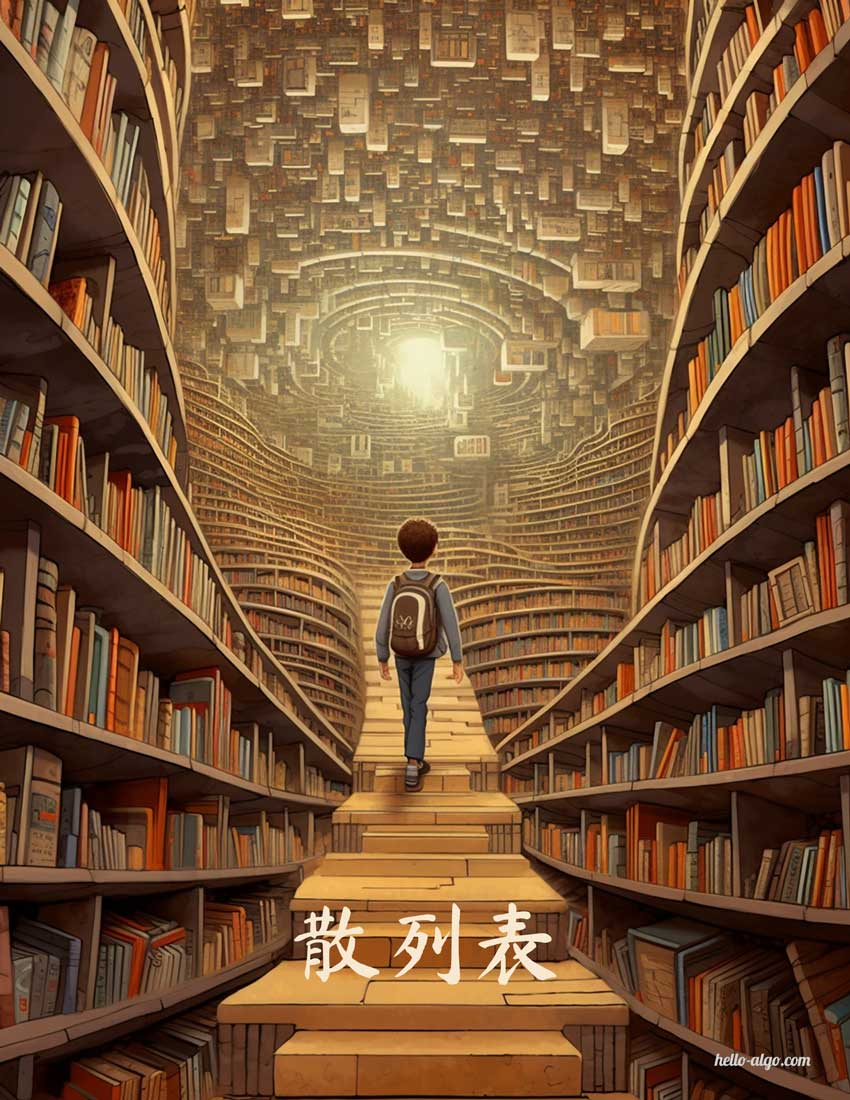
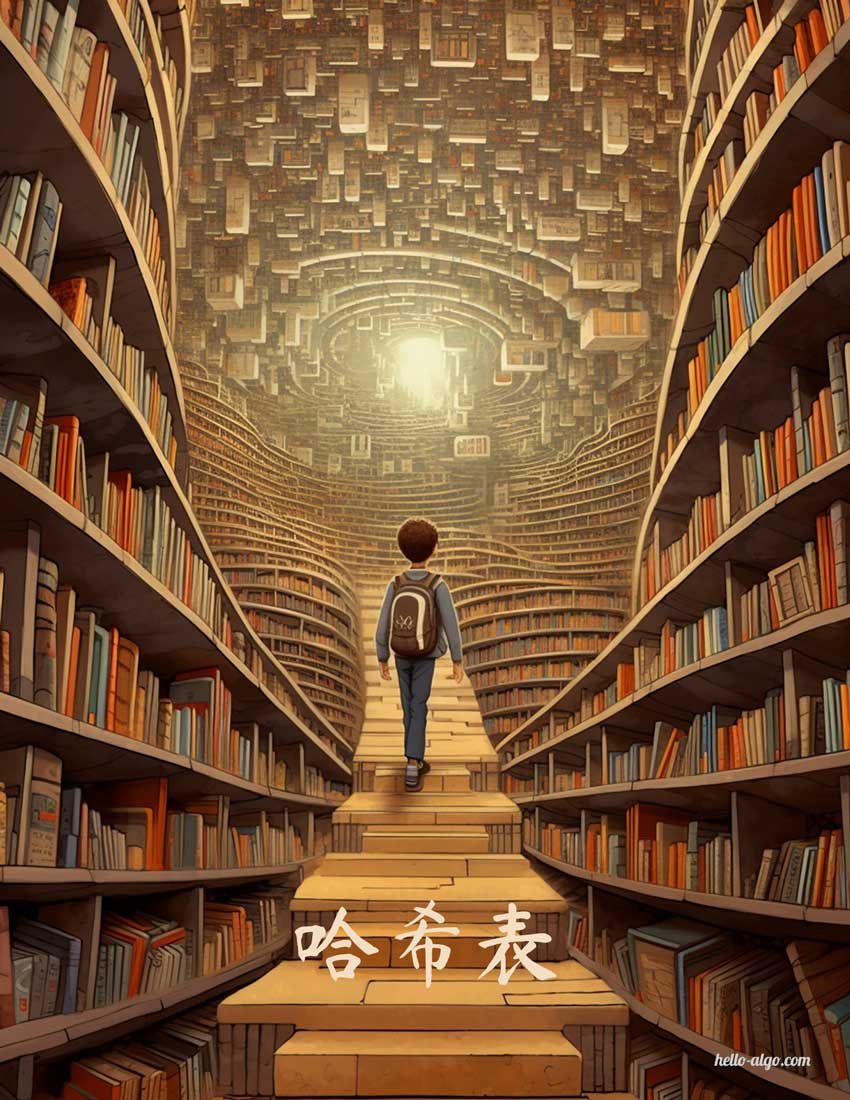
Polish the content.

Changed region(s): [[0.3365, 0.8036, 0.5506, 0.8964]]

diff --git a/docs/chapter_backtracking/subset_sum_problem.md b/docs/chapter_backtracking/subset_sum_problem.md
@@ -128,22 +128,22 @@
 
 **我们考虑在搜索过程中通过剪枝进行去重**。观察下图，重复子集是在以不同顺序选择数组元素时产生的，具体来看：
 
-1. 第一轮和第二轮分别选择 $3$ , $4$ ，会生成包含这两个元素的所有子集，记为 $[3, 4, \cdots]$ 。
-2. 若第一轮选择 $4$ ，**则第二轮应该跳过 $3$** ，因为该选择产生的子集 $[4, 3, \cdots]$ 和 `1.` 中生成的子集完全重复。
+1. 第一轮和第二轮分别选择 $3$ , $4$ ，会生成包含这两个元素的所有子集，记为 $[3, 4, \dots]$ 。
+2. 若第一轮选择 $4$ ，**则第二轮应该跳过 $3$** ，因为该选择产生的子集 $[4, 3, \dots]$ 和 `1.` 中生成的子集完全重复。
 
 分支越靠右，需要排除的分支也越多，例如：
 
-1. 前两轮选择 $3$ , $5$ ，生成子集 $[3, 5, \cdots]$ 。
-2. 前两轮选择 $4$ , $5$ ，生成子集 $[4, 5, \cdots]$ 。
-3. 若第一轮选择 $5$ ，**则第二轮应该跳过 $3$ 和 $4$** ，因为子集 $[5, 3, \cdots]$ 和子集 $[5, 4, \cdots]$ 和 `1.` , `2.` 中生成的子集完全重复。
+1. 前两轮选择 $3$ , $5$ ，生成子集 $[3, 5, \dots]$ 。
+2. 前两轮选择 $4$ , $5$ ，生成子集 $[4, 5, \dots]$ 。
+3. 若第一轮选择 $5$ ，**则第二轮应该跳过 $3$ 和 $4$** ，因为子集 $[5, 3, \dots]$ 和子集 $[5, 4, \dots]$ 和 `1.` , `2.` 中生成的子集完全重复。
 
 ![不同选择顺序导致的重复子集](subset_sum_problem.assets/subset_sum_i_pruning.png)
 
-总结来看，给定输入数组 $[x_1, x_2, \cdots, x_n]$ ，设搜索过程中的选择序列为 $[x_{i_1}, x_{i_2}, \cdots , x_{i_m}]$ ，则该选择序列需要满足 $i_1 \leq i_2 \leq \cdots \leq i_m$ ，**不满足该条件的选择序列都会造成重复，应当剪枝**。
+总结来看，给定输入数组 $[x_1, x_2, \dots, x_n]$ ，设搜索过程中的选择序列为 $[x_{i_1}, x_{i_2}, \dots , x_{i_m}]$ ，则该选择序列需要满足 $i_1 \leq i_2 \leq \dots \leq i_m$ ，**不满足该条件的选择序列都会造成重复，应当剪枝**。
 
 ### 代码实现
 
-为实现该剪枝，我们初始化变量 `start` ，用于指示遍历起点。**当做出选择 $x_{i}$ 后，设定下一轮从索引 $i$ 开始遍历**。这样做就可以让选择序列满足 $i_1 \leq i_2 \leq \cdots \leq i_m$ ，从而保证子集唯一。
+为实现该剪枝，我们初始化变量 `start` ，用于指示遍历起点。**当做出选择 $x_{i}$ 后，设定下一轮从索引 $i$ 开始遍历**。这样做就可以让选择序列满足 $i_1 \leq i_2 \leq \dots \leq i_m$ ，从而保证子集唯一。
 
 除此之外，我们还对代码进行了两项优化：
 

diff --git a/docs/chapter_computational_complexity/time_complexity.md b/docs/chapter_computational_complexity/time_complexity.md
@@ -1210,7 +1210,7 @@ $$
 
 ![常数阶、线性阶和平方阶的时间复杂度](time_complexity.assets/time_complexity_constant_linear_quadratic.png)
 
-以冒泡排序为例，外层循环执行 $n - 1$ 次，内层循环执行 $n-1, n-2, \cdots, 2, 1$ 次，平均为 $n / 2$ 次，因此时间复杂度为 $O((n - 1) n / 2) = O(n^2)$ 。
+以冒泡排序为例，外层循环执行 $n - 1$ 次，内层循环执行 $n-1, n-2, \dots, 2, 1$ 次，平均为 $n / 2$ 次，因此时间复杂度为 $O((n - 1) n / 2) = O(n^2)$ 。
 
 === "Java"
 
@@ -1596,7 +1596,13 @@ $$
 
 !!! tip
 
-    “一分为 $m$”对应的时间复杂度 $O(\log_m n)$ 。我们通常会省略底数 $m$ ，直接将其记为 $O(\log n)$ 。
+    准确来说，“一分为 $m$”对应的时间复杂度是 $O(\log_m n)$ 。而通过对数换底公式，我们可以得到具有不同底数的、相等的时间复杂度：
+
+    $$
+    O(\log_m n) = O(\log_k n / \log_k m) = O(\log_k n)
+    $$
+
+    因此我们通常会省略底数 $m$ ，将对数阶直接记为 $O(\log n)$ 。
 
 ### 线性对数阶 $O(n \log n)$
 
@@ -1683,7 +1689,7 @@ $$
 阶乘阶对应数学上的“全排列”问题。给定 $n$ 个互不重复的元素，求其所有可能的排列方案，方案数量为：
 
 $$
-n! = n \times (n - 1) \times (n - 2) \times \cdots \times 2 \times 1
+n! = n \times (n - 1) \times (n - 2) \times \dots \times 2 \times 1
 $$
 
 阶乘通常使用递归实现。例如在以下代码中，第一层分裂出 $n$ 个，第二层分裂出 $n - 1$ 个，以此类推，直至第 $n$ 层时停止分裂：

diff --git a/docs/chapter_array_and_linkedlist/linked_list.md b/docs/chapter_array_and_linkedlist/linked_list.md
@@ -932,10 +932,10 @@
 
 ## 链表典型应用
 
-单向链表通常用于实现栈、队列、散列表和图等数据结构。
+单向链表通常用于实现栈、队列、哈希表和图等数据结构。
 
 - **栈与队列**：当插入和删除操作都在链表的一端进行时，它表现出先进后出的的特性，对应栈；当插入操作在链表的一端进行，删除操作在链表的另一端进行，它表现出先进先出的特性，对应队列。
-- **散列表**：链地址法是解决哈希冲突的主流方案之一，在该方案中，所有冲突的元素都会被放到一个链表中。
+- **哈希表**：链地址法是解决哈希冲突的主流方案之一，在该方案中，所有冲突的元素都会被放到一个链表中。
 - **图**：邻接表是表示图的一种常用方式，在其中，图的每个顶点都与一个链表相关联，链表中的每个元素都代表与该顶点相连的其他顶点。
 
 双向链表常被用于需要快速查找前一个和下一个元素的场景。

diff --git a/docs/chapter_heap/build_heap.md b/docs/chapter_heap/build_heap.md
@@ -102,22 +102,22 @@
 因此，我们可以将各层的“节点数量 $\times$ 节点高度”求和，**从而得到所有节点的堆化迭代次数的总和**。
 
 $$
-T(h) = 2^0h + 2^1(h-1) + 2^2(h-2) + \cdots + 2^{(h-1)}\times1
+T(h) = 2^0h + 2^1(h-1) + 2^2(h-2) + \dots + 2^{(h-1)}\times1
 $$
 
 化简上式需要借助中学的数列知识，先对 $T(h)$ 乘以 $2$ ，得到
 
 $$
 \begin{aligned}
-T(h) & = 2^0h + 2^1(h-1) + 2^2(h-2) + \cdots + 2^{h-1}\times1 \newline
-2 T(h) & = 2^1h + 2^2(h-1) + 2^3(h-2) + \cdots + 2^{h}\times1 \newline
+T(h) & = 2^0h + 2^1(h-1) + 2^2(h-2) + \dots + 2^{h-1}\times1 \newline
+2 T(h) & = 2^1h + 2^2(h-1) + 2^3(h-2) + \dots + 2^{h}\times1 \newline
 \end{aligned}
 $$
 
 使用错位相减法，用下式 $2 T(h)$ 减去上式 $T(h)$ ，可得
 
 $$
-2T(h) - T(h) = T(h) = -2^0h + 2^1 + 2^2 + \cdots + 2^{h-1} + 2^h
+2T(h) - T(h) = T(h) = -2^0h + 2^1 + 2^2 + \dots + 2^{h-1} + 2^h
 $$
 
 观察上式，发现 $T(h)$ 是一个等比数列，可直接使用求和公式，得到时间复杂度为

diff --git a/docs/chapter_sorting/insertion_sort.md b/docs/chapter_sorting/insertion_sort.md
@@ -93,7 +93,7 @@
 
 ## 算法特性
 
-- **时间复杂度 $O(n^2)$ 、自适应排序** ：最差情况下，每次插入操作分别需要循环 $n - 1$ , $n-2$ , $\cdots$ , $2$ , $1$ 次，求和得到 $\frac{(n - 1) n}{2}$ ，因此时间复杂度为 $O(n^2)$ 。在遇到有序数据时，插入操作会提前终止。当输入数组完全有序时，插入排序达到最佳时间复杂度 $O(n)$ 。
+- **时间复杂度 $O(n^2)$ 、自适应排序** ：最差情况下，每次插入操作分别需要循环 $n - 1$ , $n-2$ , $\dots$ , $2$ , $1$ 次，求和得到 $(n - 1) n / 2$ ，因此时间复杂度为 $O(n^2)$ 。在遇到有序数据时，插入操作会提前终止。当输入数组完全有序时，插入排序达到最佳时间复杂度 $O(n)$ 。
 - **空间复杂度 $O(1)$ 、原地排序** ：指针 $i$ , $j$ 使用常数大小的额外空间。
 - **稳定排序**：在插入操作过程中，我们会将元素插入到相等元素的右侧，不会改变它们的顺序。
 

diff --git a/docs/chapter_data_structure/summary.md b/docs/chapter_data_structure/summary.md
@@ -15,7 +15,7 @@
 
 !!! question "为什么哈希表同时包含线性数据结构和非线性数据结构？"
 
-    哈希表底层是数组，而为了解决哈希冲突，我们可能会使用“链式地址”（后续散列表章节会讲）。在拉链法中，数组中每个地址（桶）指向一个链表；当这个链表长度超过一定阈值时，又可能被转化为树（通常为红黑树）。因此，哈希表可能同时包含线性（数组、链表）和非线性（树）数据结构。
+    哈希表底层是数组，而为了解决哈希冲突，我们可能会使用“链式地址”（后续哈希表章节会讲）。在拉链法中，数组中每个地址（桶）指向一个链表；当这个链表长度超过一定阈值时，又可能被转化为树（通常为红黑树）。因此，哈希表可能同时包含线性（数组、链表）和非线性（树）数据结构。
 
 !!! question "`char` 类型的长度是 1 byte 吗？"
 

diff --git a/docs/chapter_preface/about_the_book.md b/docs/chapter_preface/about_the_book.md
@@ -23,7 +23,7 @@
 本书主要内容包括：
 
 - **复杂度分析**：数据结构和算法的评价维度与方法。时间复杂度、空间复杂度的推算方法、常见类型、示例等。
-- **数据结构**：基本数据类型，数据结构的分类方法。数组、链表、栈、队列、散列表、树、堆、图等数据结构的定义、优缺点、常用操作、常见类型、典型应用、实现方法等。
+- **数据结构**：基本数据类型，数据结构的分类方法。数组、链表、栈、队列、哈希表、树、堆、图等数据结构的定义、优缺点、常用操作、常见类型、典型应用、实现方法等。
 - **算法**：搜索、排序、分治、回溯、动态规划、贪心等算法的定义、优缺点、效率、应用场景、解题步骤、示例题目等。
 
 ![Hello 算法内容结构](about_the_book.assets/hello_algo_mindmap.png)

diff --git a/docs/chapter_sorting/selection_sort.md b/docs/chapter_sorting/selection_sort.md
@@ -119,7 +119,7 @@
 
 ## 算法特性
 
-- **时间复杂度为 $O(n^2)$ 、非自适应排序**：外循环共 $n - 1$ 轮，第一轮的未排序区间长度为 $n$ ，最后一轮的未排序区间长度为 $2$ ，即各轮外循环分别包含 $n$ , $n - 1$ , $\cdots$ , $2$ 轮内循环，求和为 $\frac{(n - 1)(n + 2)}{2}$ 。
+- **时间复杂度为 $O(n^2)$ 、非自适应排序**：外循环共 $n - 1$ 轮，第一轮的未排序区间长度为 $n$ ，最后一轮的未排序区间长度为 $2$ ，即各轮外循环分别包含 $n$ , $n - 1$ , $\dots$ , $2$ 轮内循环，求和为 $\frac{(n - 1)(n + 2)}{2}$ 。
 - **空间复杂度 $O(1)$ 、原地排序**：指针 $i$ , $j$ 使用常数大小的额外空间。
 - **非稳定排序**：在交换元素时，有可能将 `nums[i]` 交换至其相等元素的右边，导致两者的相对顺序发生改变。
 

diff --git a/docs/chapter_backtracking/n_queens_problem.md b/docs/chapter_backtracking/n_queens_problem.md
@@ -136,6 +136,6 @@
     [class]{}-[func]{n_queens}
     ```
 
-逐行放置 $n$ 次，考虑列约束，则从第一行到最后一行分别有 $n, n-1, \cdots, 2, 1$ 个选择，**因此时间复杂度为 $O(n!)$** 。实际上，根据对角线约束的剪枝也能够大幅地缩小搜索空间，因而搜索效率往往优于以上时间复杂度。
+逐行放置 $n$ 次，考虑列约束，则从第一行到最后一行分别有 $n, n-1, \dots, 2, 1$ 个选择，**因此时间复杂度为 $O(n!)$** 。实际上，根据对角线约束的剪枝也能够大幅地缩小搜索空间，因而搜索效率往往优于以上时间复杂度。
 
 数组 `state` 使用 $O(n^2)$ 空间，数组 `cols` , `diags1` , `diags2` 皆使用 $O(n)$ 空间。最大递归深度为 $n$ ，使用 $O(n)$ 栈帧空间。因此，**空间复杂度为 $O(n^2)$** 。

diff --git a/docs/chapter_hashing/hash_algorithm.md b/docs/chapter_hashing/hash_algorithm.md
@@ -198,8 +198,8 @@ index = hash(key) % capacity
 $$
 \begin{aligned}
 \text{modulus} & = 9 \newline
-\text{key} & = \{ 0, 3, 6, 9, 12, 15, 18, 21, 24, 27, 30, 33, \cdots \} \newline
-\text{hash} & = \{ 0, 3, 6, 0, 3, 6, 0, 3, 6, 0, 3, 6,\cdots \}
+\text{key} & = \{ 0, 3, 6, 9, 12, 15, 18, 21, 24, 27, 30, 33, \dots \} \newline
+\text{hash} & = \{ 0, 3, 6, 0, 3, 6, 0, 3, 6, 0, 3, 6,\dots \}
 \end{aligned}
 $$
 
@@ -208,8 +208,8 @@ $$
 $$
 \begin{aligned}
 \text{modulus} & = 13 \newline
-\text{key} & = \{ 0, 3, 6, 9, 12, 15, 18, 21, 24, 27, 30, 33, \cdots \} \newline
-\text{hash} & = \{ 0, 3, 6, 9, 12, 2, 5, 8, 11, 1, 4, 7, \cdots \}
+\text{key} & = \{ 0, 3, 6, 9, 12, 15, 18, 21, 24, 27, 30, 33, \dots \} \newline
+\text{hash} & = \{ 0, 3, 6, 9, 12, 2, 5, 8, 11, 1, 4, 7, \dots \}
 \end{aligned}
 $$
 

diff --git a/docs/chapter_sorting/bubble_sort.md b/docs/chapter_sorting/bubble_sort.md
@@ -188,6 +188,6 @@
 
 ## 算法特性
 
-- **时间复杂度为 $O(n^2)$ 、自适应排序** ：各轮“冒泡”遍历的数组长度依次为 $n - 1$ , $n - 2$ , $\cdots$ , $2$ , $1$ ，总和为 $(n - 1) n / 2$ 。在引入 `flag` 优化后，最佳时间复杂度可达到 $O(n)$ 。
+- **时间复杂度为 $O(n^2)$ 、自适应排序** ：各轮“冒泡”遍历的数组长度依次为 $n - 1$ , $n - 2$ , $\dots$ , $2$ , $1$ ，总和为 $(n - 1) n / 2$ 。在引入 `flag` 优化后，最佳时间复杂度可达到 $O(n)$ 。
 - **空间复杂度为 $O(1)$ 、原地排序**：指针 $i$ , $j$ 使用常数大小的额外空间。
 - **稳定排序**：由于在“冒泡”中遇到相等元素不交换。

diff --git a/docs/chapter_hashing/hash_collision.md b/docs/chapter_hashing/hash_collision.md
@@ -204,7 +204,7 @@
 
 ### 多次哈希
 
-顾名思义，多次哈希方法是使用多个哈希函数 $f_1(x)$ , $f_2(x)$ , $f_3(x)$ , $\cdots$ 进行探测。
+顾名思义，多次哈希方法是使用多个哈希函数 $f_1(x)$ , $f_2(x)$ , $f_3(x)$ , $\dots$ 进行探测。
 
 - **插入元素**：若哈希函数 $f_1(x)$ 出现冲突，则尝试 $f_2(x)$ ，以此类推，直到找到空位后插入元素。
 - **查找元素**：在相同的哈希函数顺序下进行查找，直到找到目标元素时返回；或遇到空位或已尝试所有哈希函数，说明哈希表中不存在该元素，则返回 $\text{None}$ 。
